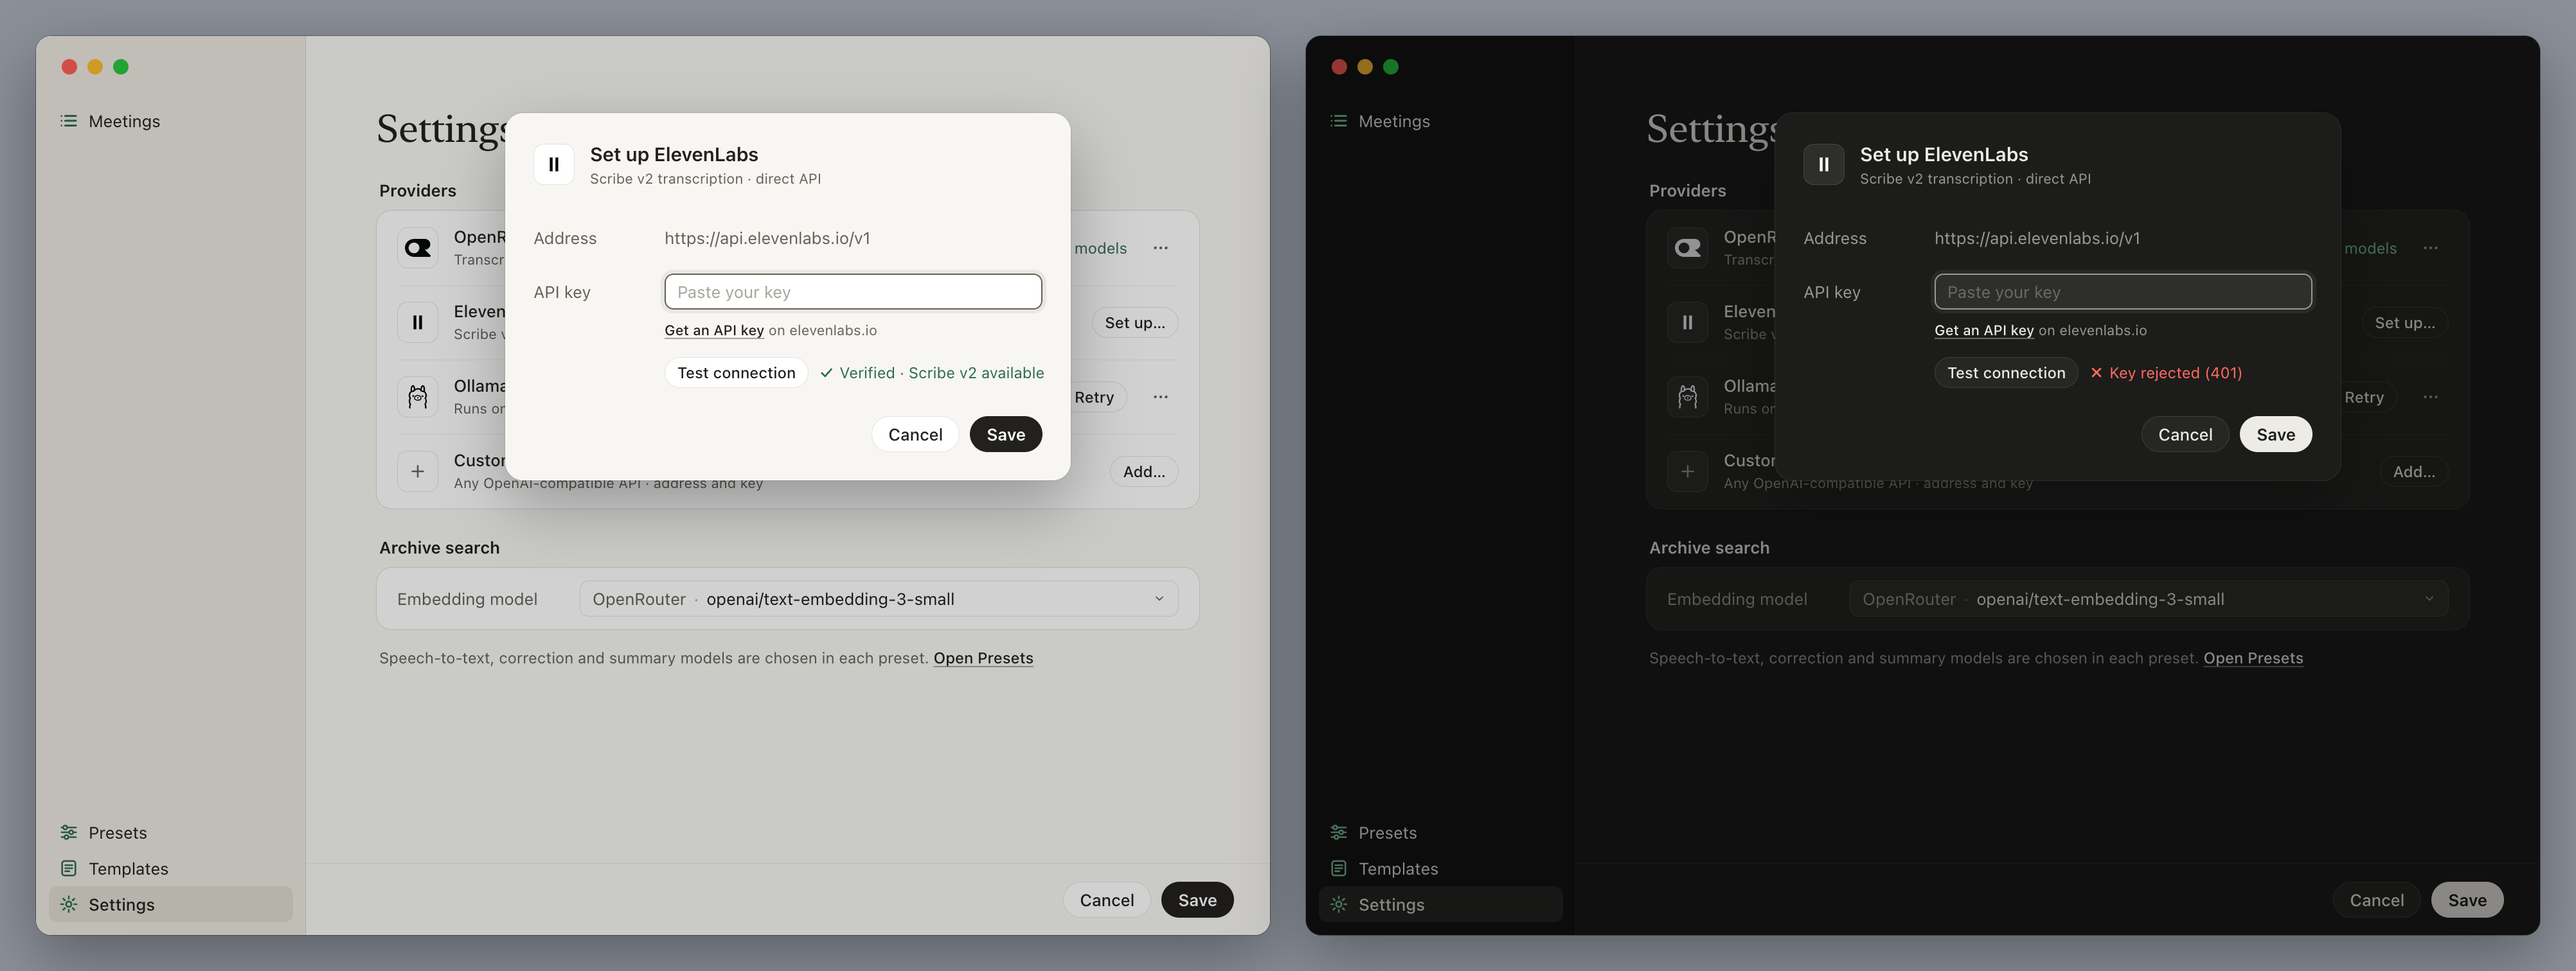
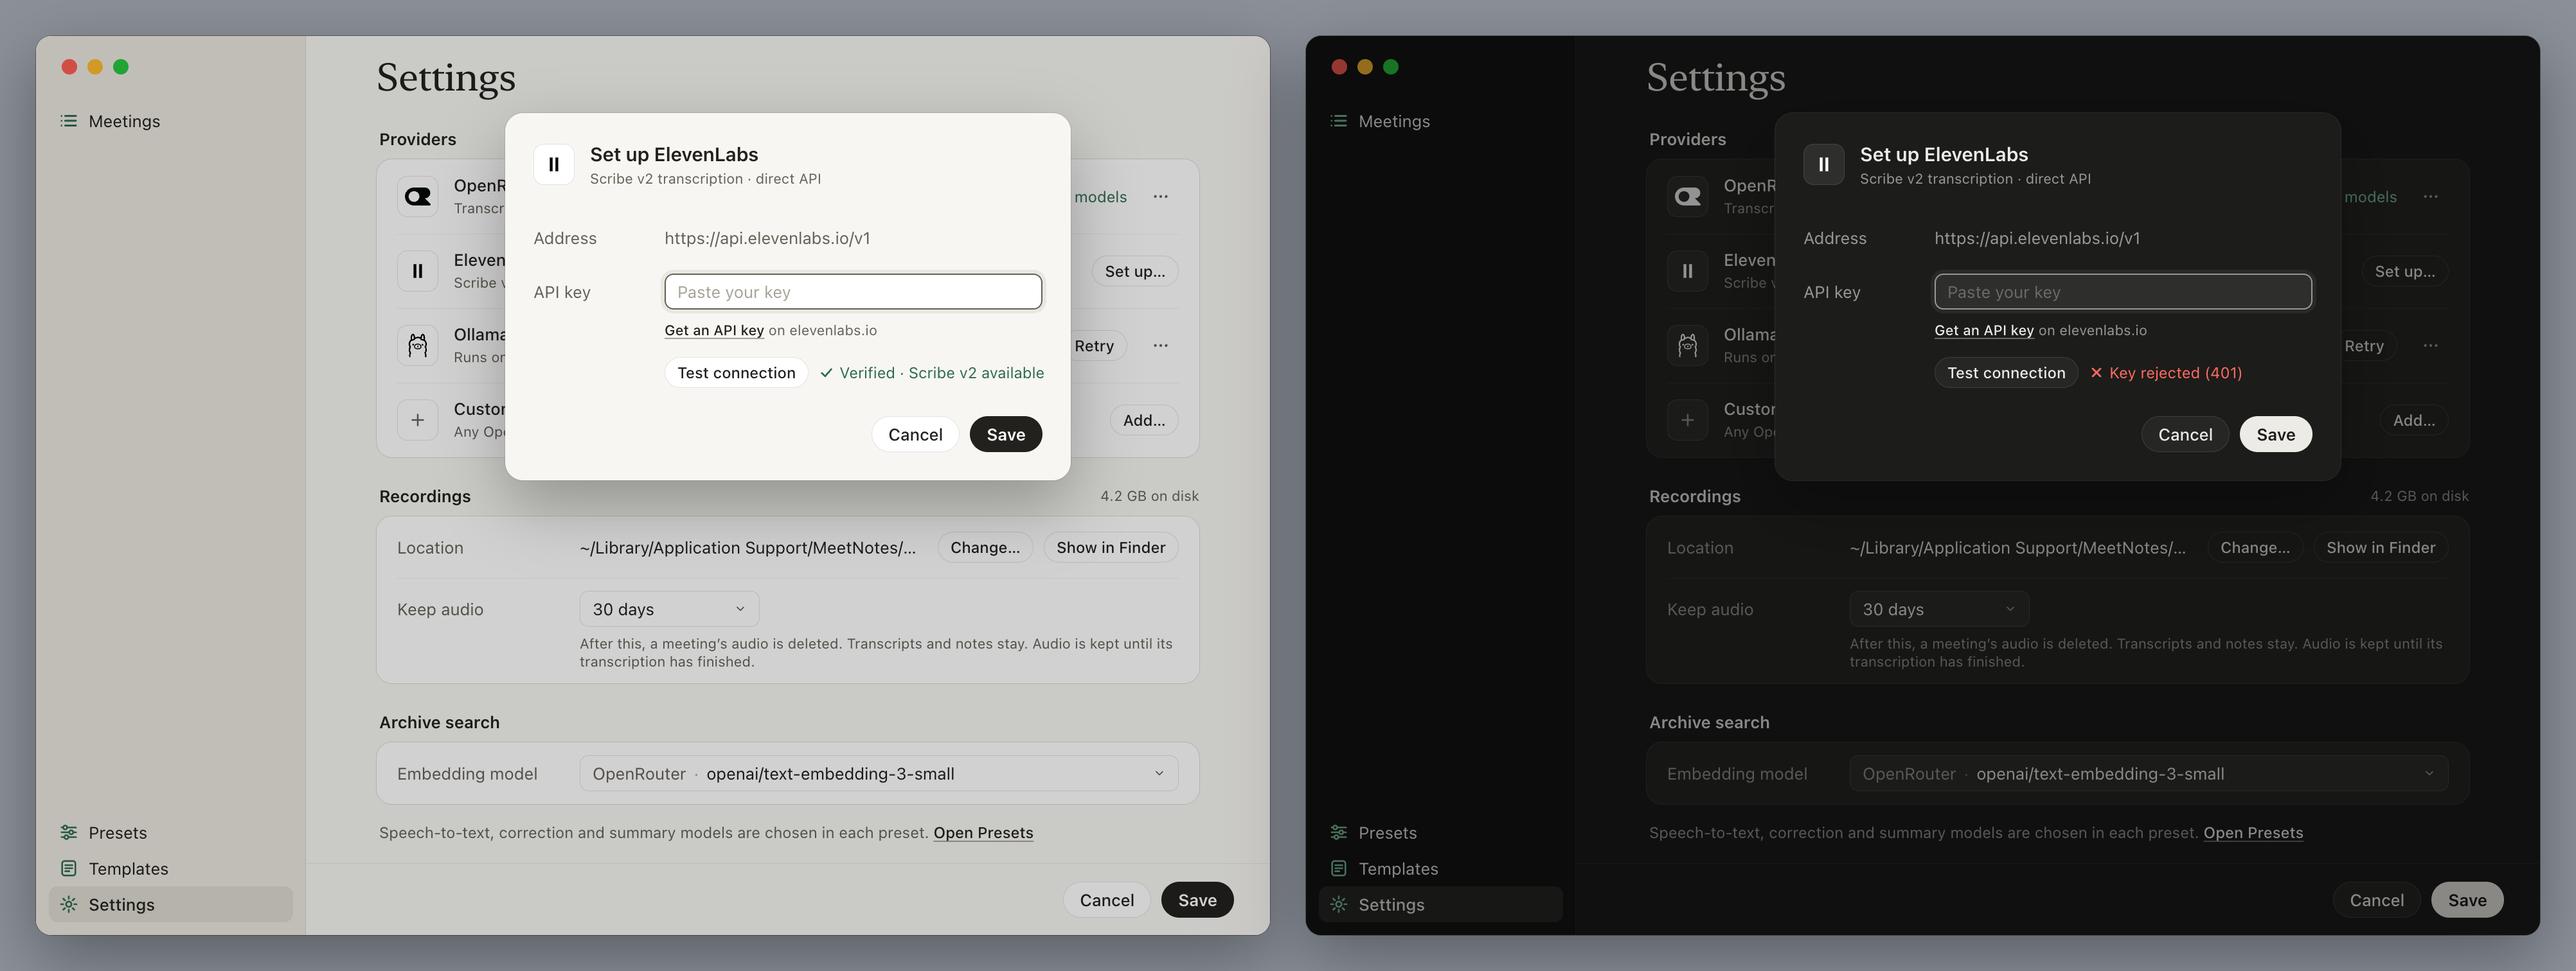
Design §11.5: Settings — Recordings (lokalizacja z przenoszeniem, retencja audio 30 dni, tylko audio)

diff --git a/docs/design/makiety/ekrany-b.html b/docs/design/makiety/ekrany-b.html
@@ -303,10 +303,18 @@ const providers = th => `<div class="card" style="overflow:hidden">
     ${prow(th,'ol','Ollama','Runs on this Mac · correction and summary only, no transcription', `<span class="state bad">${I.x}Not reachable</span><span class="pill sm">Retry</span><div class="icon-btn">${I.more}</div>`)}
     ${prow(th,'cu','Custom endpoint','Any OpenAI-compatible API · address and key', `<span class="pill sm">Add…</span>`)}
   </div>`;
-const settingsBody = th => `<div class="main"><div class="col" style="width:640px">
+const settingsBody = th => `<div class="main"><div class="col" style="width:640px;transform:translateY(-40px)">
   <div class="t-large" style="margin-bottom:4px">Settings</div>
   <div class="sec-h"><span class="t-head">Providers</span></div>
   ${providers(th)}
+  <div class="sec-h"><span class="t-head">Recordings</span><span class="t-cap num">4.2 GB on disk</span></div>
+  <div class="card">
+    <div class="form-row"><label>Location</label><div style="display:flex;align-items:center;gap:8px;min-width:0">
+      <div class="field" style="flex:1;box-shadow:none;background:transparent;padding:0"><span class="grow">~/Library/Application Support/MeetNotes/Meetings</span></div>
+      <span class="pill sm">Change…</span><span class="pill sm">Show in Finder</span></div></div>
+    <div class="form-row" style="align-items:start"><label style="padding-top:6px">Keep audio</label><div>${popup('30 days',140)}
+      <div class="t-cap" style="margin-top:6px">After this, a meeting’s audio is deleted. Transcripts and notes stay. Audio is kept until its transcription has finished.</div></div></div>
+  </div>
   <div class="sec-h"><span class="t-head">Archive search</span></div>
   <div class="card"><div class="form-row"><label>Embedding model</label>${model('OpenRouter','openai/text-embedding-3-small')}</div></div>
   <p class="dim" style="margin:14px 2px 0;font-size:12px;line-height:16px">Speech-to-text, correction and summary models are chosen in each preset. <span class="link">Open Presets</span></p>

diff --git a/docs/design/macos.md b/docs/design/macos.md
@@ -479,6 +479,19 @@ w dolnym pasku, jak na `b-add.png`.
   i Ollama, ElevenLabs nie) i pod nim „Embedding model” (`ModelField`, lista z wybranego dostawcy,
   `?output_modalities=embeddings` dla OpenAI-compatible). Bez wiersza „Provider”, gdy pasuje tylko jeden
   dostawca. Zmiana dostawcy czyści wybór modelu; potwierdzenie zmiany embeddingu bez zmian (spec §5.4).
+  **Recordings (decyzje użytkownika 2026-10-16; makieta `b-settings.png`):** sekcja między
+  Providers a Archive search, w nagłówku rozmiar na dysku („4.2 GB on disk”).
+  - **Location:** ścieżka folderu ze wszystkimi spotkaniami (skracana w środku, pełna w podpowiedzi),
+    „Change…” (panel wyboru folderu) i „Show in Finder”. **Zmiana przenosi wszystkie istniejące
+    spotkania**: najpierw kopia, potem weryfikacja (lista plików i rozmiary), dopiero potem usunięcie
+    ze starego miejsca; postęp widoczny w sekcji; przy błędzie nic nie jest usuwane, stare miejsce
+    zostaje aktywne, komunikat z powodem. Zmiana zablokowana podczas nagrywania i transkrypcji.
+  - **Keep audio:** popup 7 / 14 / **30 (domyślnie)** / 90 days / Forever. Po tym czasie kasowane jest
+    **tylko audio** spotkania (`*.caf`, później Opus); transkrypt, notatka i My notes zostają. Audio
+    spotkania bez ukończonej transkrypcji (w toku albo błąd) **nie jest kasowane**. Podpis pod
+    popupem mówi to wprost. Spotkanie bez audio pokazuje w widoku „Audio deleted after 30 days”.
+  - **Zmienia spec rdzenia** (`2026-09-24-rdzen-nagrywania-design.md`: „domyślnie nie kasuje ich
+    nic”) — to jest jawna polityka retencji, o której tam mowa.
 - **Templates** (`b-templates.png`, odbiór 2026-10-16, uwaga 2): układ jak Presets (lista 196 pt +
   edytor). Szablon to **lista sekcji** (wzór inne narzędzie): karta z tytułem (SF 13 Semibold) i
   instrukcją (`text2`), uchwyt ⋮⋮ do zmiany kolejności, ✕ do usunięcia (to samo w menu
